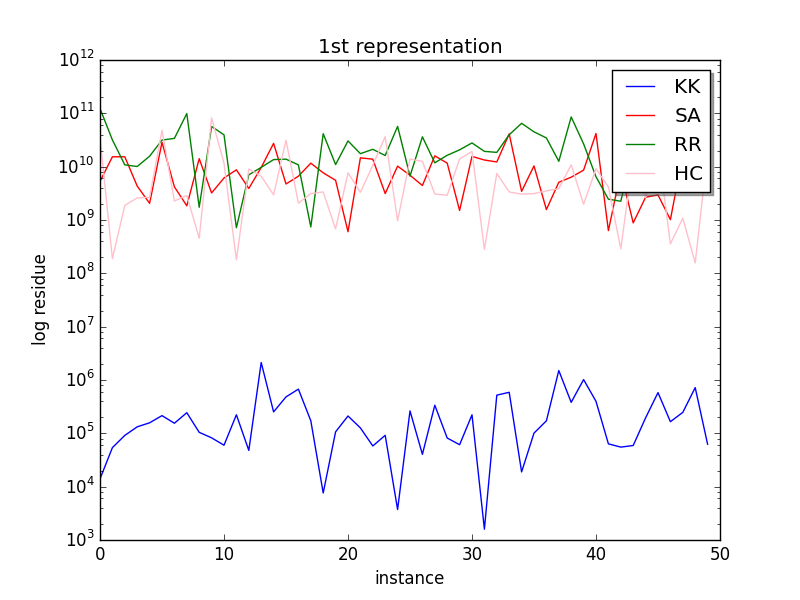
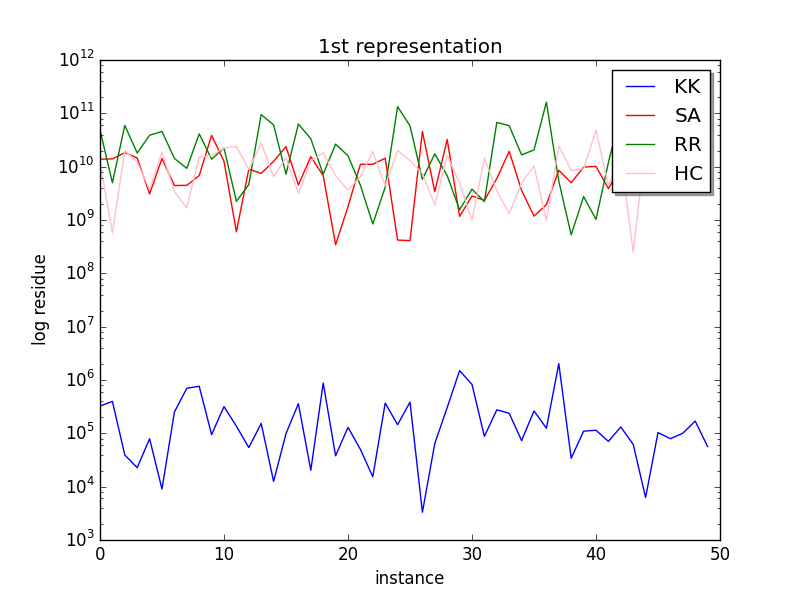
pix

diff --git a/simulated_annealing.py b/simulated_annealing.py
@@ -4,7 +4,7 @@
 ## returns simulated annealing for input_file with smallest residue after max_iterations
 
 import sys # to read in inputfile
-from math import exp, floor, e
+from math import exp, floor, e, log
 from random import choice, random, randint
 # from repeated_random import prepartition as prepartition
 import heapq
@@ -38,7 +38,7 @@ def residue(S, A):
 	return abs(sigma)
 
 def T(iter):
-	return (10 ** 10) * (0.8 ** floor(iter / 300.0))
+	return log((10 ** 10) * (0.8 ** floor(iter / 300.0)))
 
 def simAnneal(our_list, max_iterations):
 	# print "got to simAnneal " + str(our_list)
@@ -133,7 +133,6 @@ def simAnnealPP(our_list, max_iterations):
 	for n in range(max_iterations):
 		S_prime = getNeighbor(S)
 		residue_S_prime = runKK(getPartition(S_prime, our_list))
-		
 		if residue_S > residue_S_prime:
 			S = S_prime[:]
 			residue_S = residue_S_prime

diff --git a/50instances.py b/50instances.py
@@ -15,7 +15,7 @@ from hill_climbing import runPP as hill_climbingPP
 from repeated_random import run as repeated_random
 from repeated_random import runPP as repeated_randomPP
 
-iterations = 250
+iterations = 25000
 kk_results, sa_results, rr_results, hc_results  = [], [], [], []
 sa_resultsPP, rr_resultsPP, hc_resultsPP  = [], [], []
 for loop in range(0, 50):
@@ -47,7 +47,6 @@ for loop in range(0, 50):
 	sa_resultPP = simulated_annealingPP(this_loop_list[:], iterations)
 	sa_resultsPP.append(sa_resultPP)
 	print "sa_resultPP " + str(sa_resultPP)
-	
 
 
 import matplotlib.pyplot as plt
